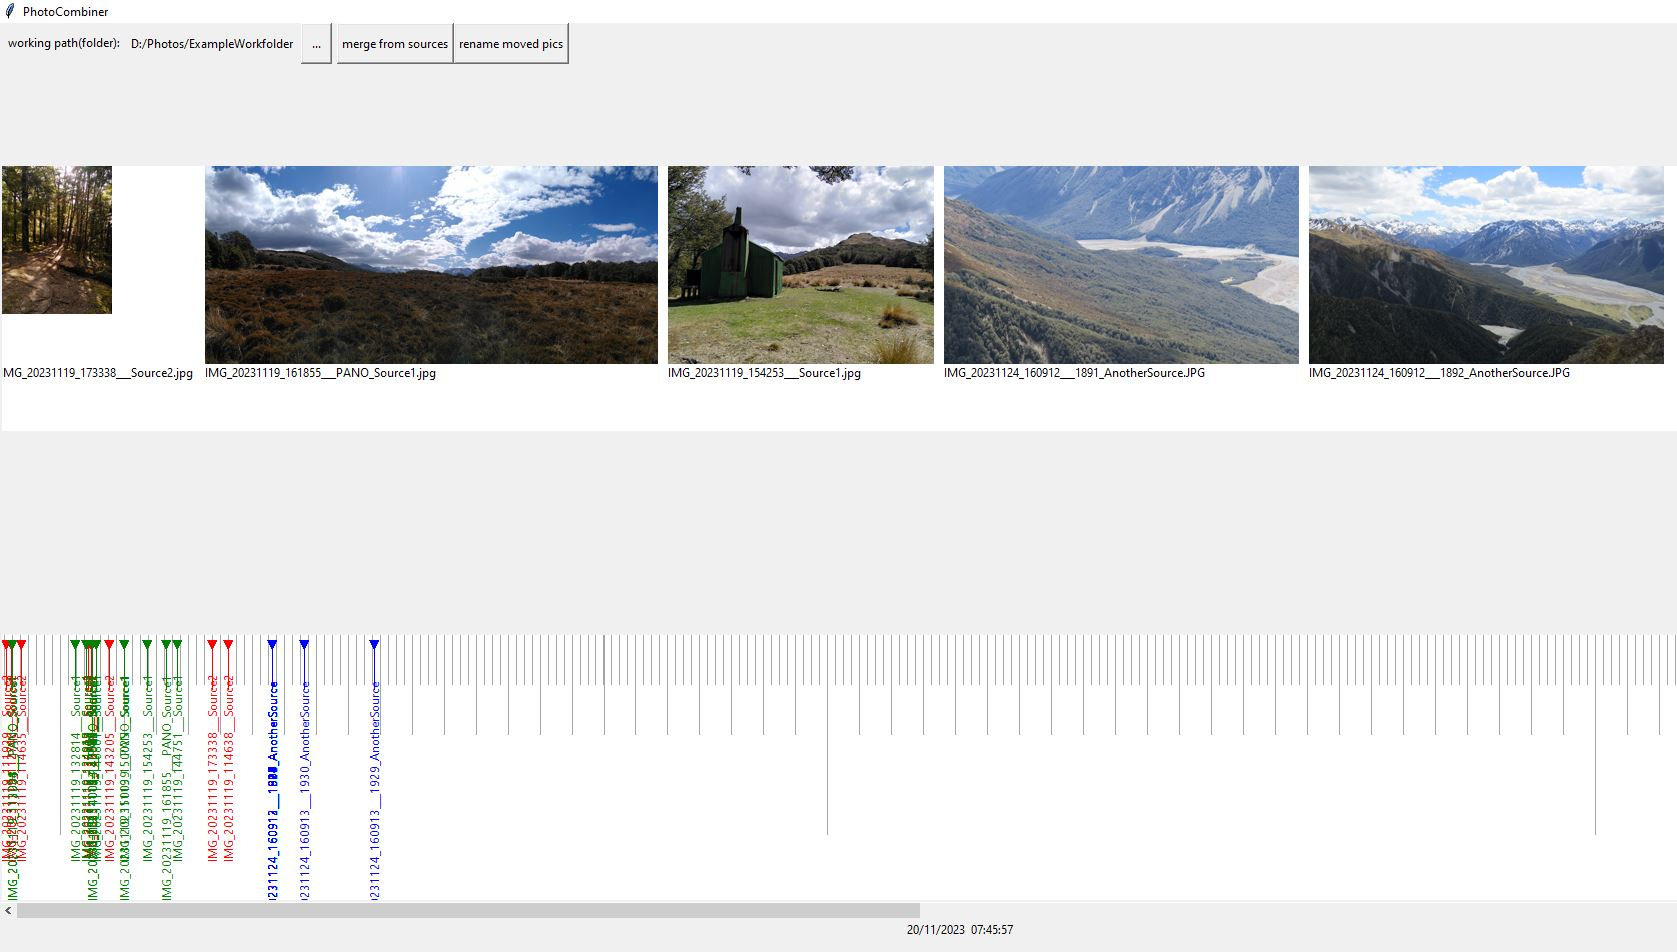
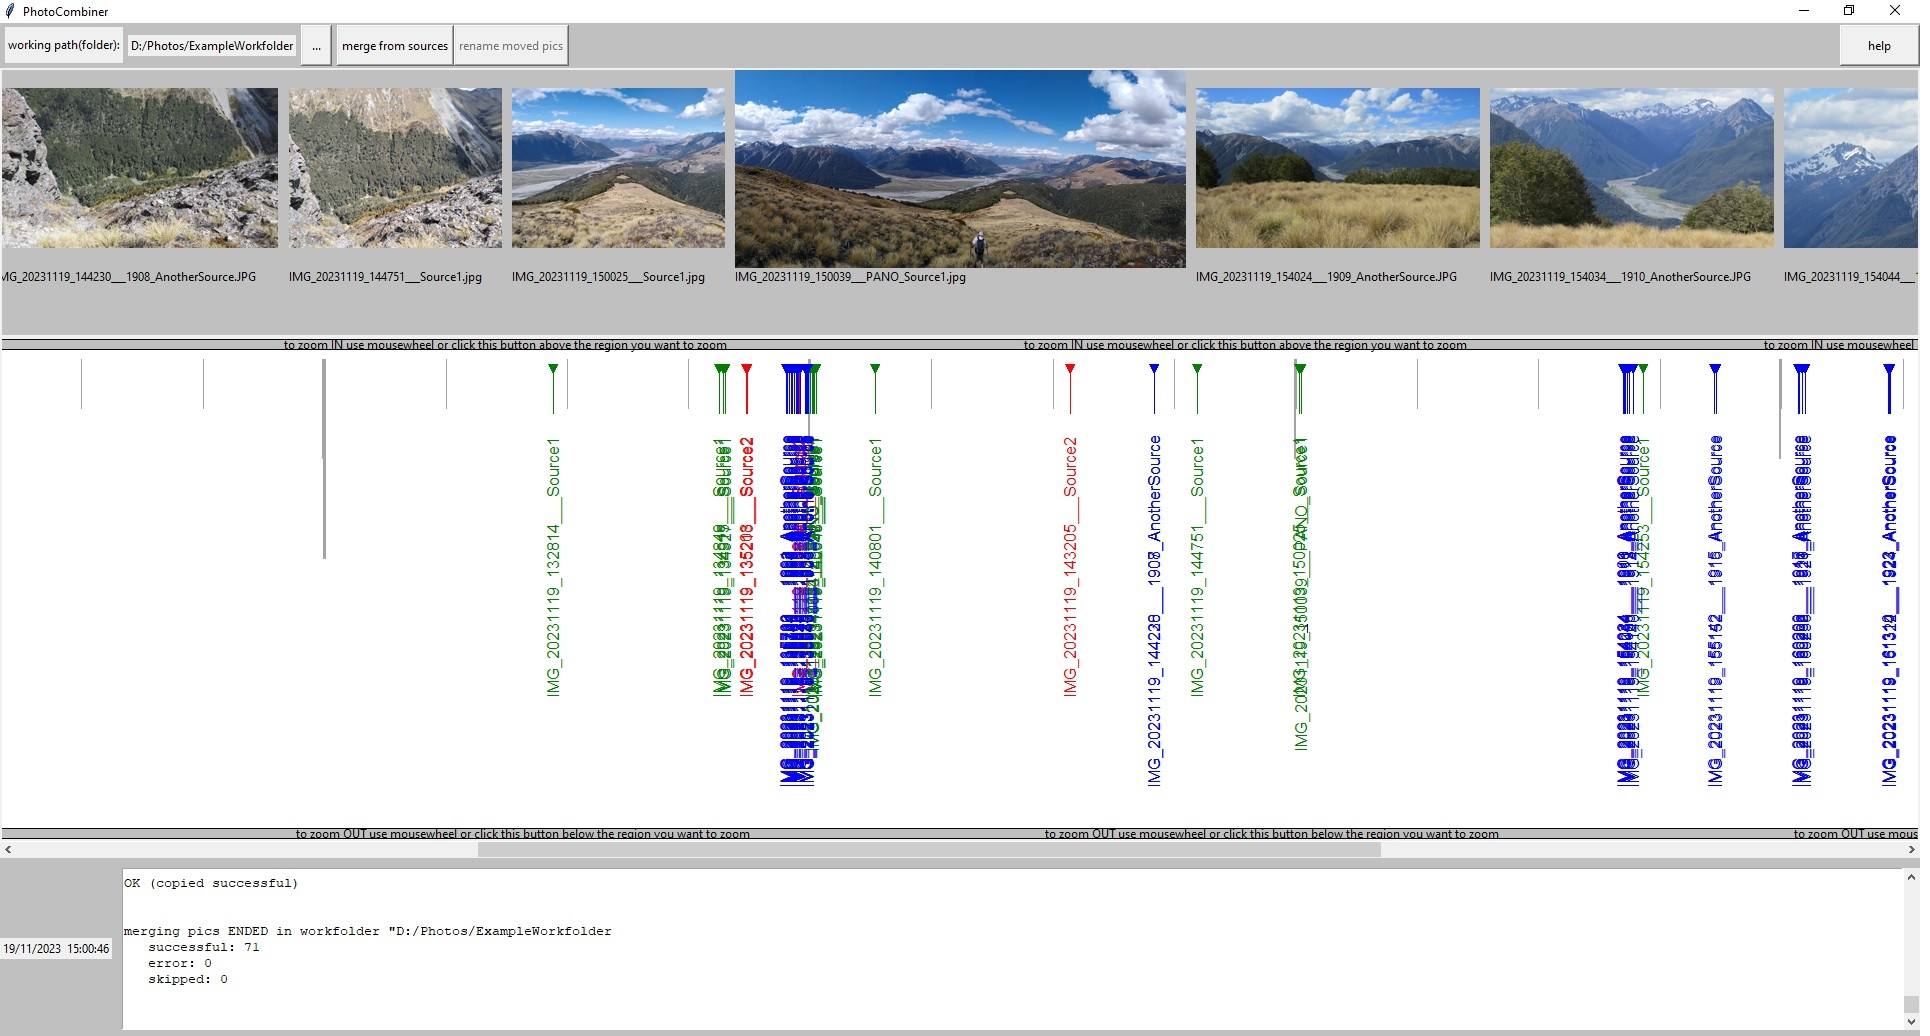
added requerements.txt, updated readme and doc picture

diff --git a/README.md b/README.md
@@ -24,11 +24,25 @@ Copies all pictures from all sources and renames them as follows: \
 - After the pictures have been merged, all pictures appear on the timeline, where they can be moved along the time axes.
 - The pictures from each source appear with a different color
 - The cursor shows the moving mode: "1" moving one pic at a time, "all" moving all pictures of one source together. Change mode with a right click in the timeline.
+
 #### Button "rename moved pics"
 After pictures have been moved along the time axis, they can be renamed according to where they have been moved.
+
+### Button "help"
+shows this text
+
+### zooming IN/OUT timeline
+- place the cursor on the timeline where you want to zoom in or out and use the mouswheel
+- alternatively use the long gray buttons in on top or bottom of the timeline. The horizontal position where you click the button determines the center of the zoom.
+
+### pic/video preview
+the preview always shows the picture or video correponding to the one the mouse last moved over in the timeline as well as 3 pictures before and after in the timeline.
+
+### changing still preview picture of video
+videos in the preview can be played forward and backward by holding the left or right mouse button down on them.
 
 
 ### branches
 main : the actual version \
-picpreview: actual developing folder with picture preview according to timeline order\
+releaseWindows: version to create windows exe
 
